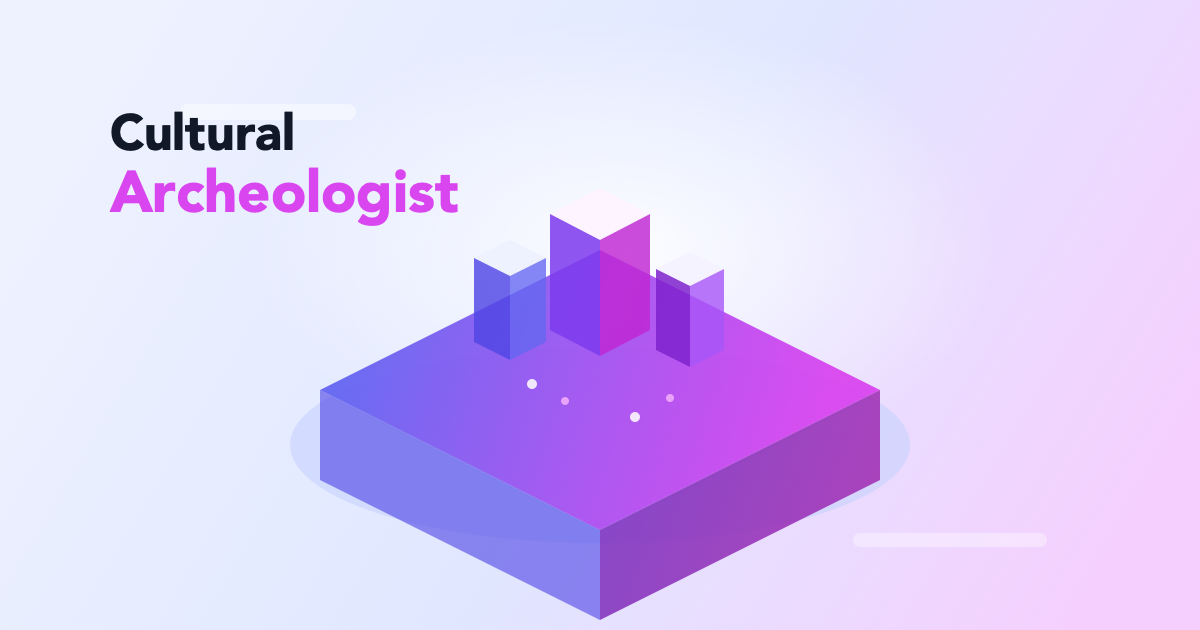
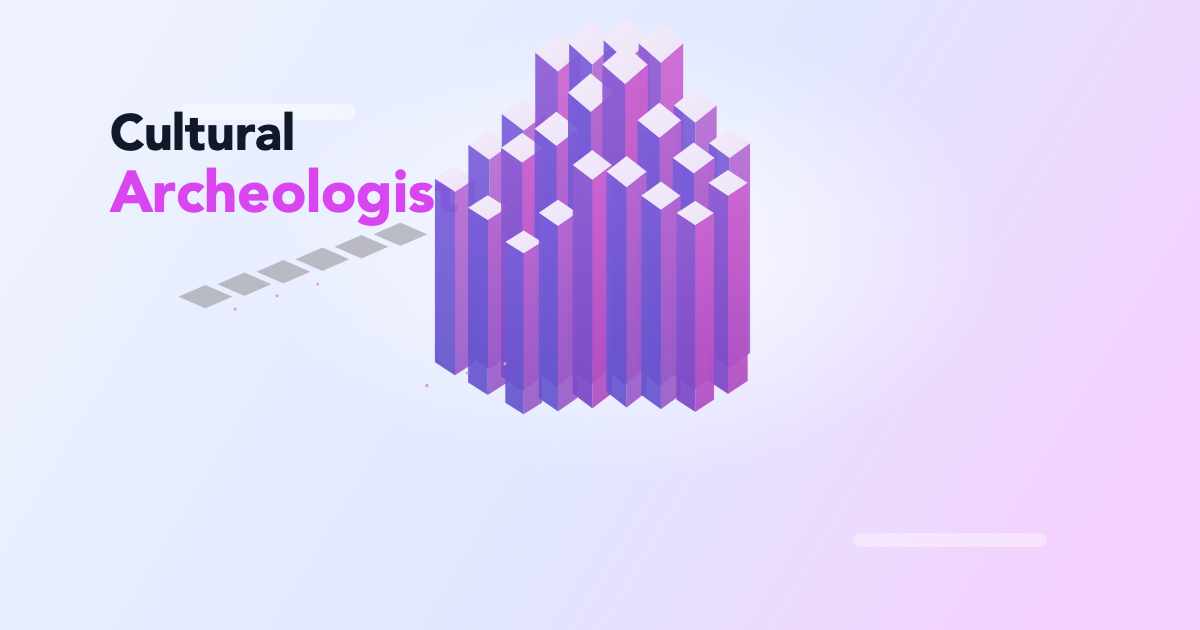
feat: refine splash cityscape interaction and social preview assets

Changed region(s): [[0.1542, 0.0603, 0.74, 0.9952]]

diff --git a/src/components/SplashGrid.tsx b/src/components/SplashGrid.tsx
@@ -2,23 +2,16 @@ import React, { useEffect, useRef } from 'react';
 
 const TILE_W = 44;
 const TILE_H = 22;
-const CITY_SATURATION_BOOST = 0;
-const CITY_LIGHTNESS_SHIFT = 20;
-const DISSOLVE_BLEND = 0.28;
-const DISSOLVE_START_DELAY_MS = 220;
-const DISSOLVE_FINAL_HOLD_MS = 180;
-const COLLAPSE_NEAR_COMPLETE = 0.985;
-const DISSOLVE_HOLD_START = 0.9;
-const DISSOLVE_HOLD_LEVEL = 0.92;
-const DISSOLVE_COMPLETE_SNAP = 0.995;
+const CITY_SATURATION_BOOST = 6;
+const CITY_LIGHTNESS_SHIFT = 8;
 
 export function SplashGrid() {
   const canvasRef = useRef<HTMLCanvasElement>(null);
-  const flattenProgressRef = useRef(0);
-  const flattenTargetRef = useRef(0);
-  const dissolveProgressRef = useRef(0);
-  const dissolveDelayUntilRef = useRef<number | null>(null);
-  const dissolveCompleteDelayUntilRef = useRef<number | null>(null);
+  const pointerXRef = useRef(0.5);
+  const pointerYRef = useRef(0.85);
+  const pointerActiveRef = useRef(false);
+  const pointerInfluenceRef = useRef(0);
+  const pointerLiftRef = useRef(0);
 
   useEffect(() => {
     const canvas = canvasRef.current;
@@ -34,15 +27,10 @@ export function SplashGrid() {
     let animationFrameId: number;
     let time = 0;
 
-    // Head-on perspective projection with 3D depth
-    const perspective = (x: number, y: number, z: number, tileW: number, tileH: number, originX: number, originY: number, fov: number = 0.05) => {
-      const depth = 1 + x * fov;
-      const scale = depth > 0 ? 1 / depth : 1;
+    const iso = (x: number, y: number, z: number, tileW: number, tileH: number, originX: number, originY: number) => {
       return {
-        x: originX + y * tileW * scale,
-        y: originY - z * tileH * scale,
-        scale: scale,
-        depth: depth
+        x: originX + (x - y) * (tileW * 0.5),
+        y: originY + (x + y) * (tileH * 0.5) - z,
       };
     };
 
@@ -75,58 +63,71 @@ export function SplashGrid() {
     window.addEventListener('resize', resize);
     resize();
 
-    const handleCanvasClick = () => {
-      // Click collapses the skyline to a fully flattened state.
-      flattenTargetRef.current = 1;
-      dissolveDelayUntilRef.current = null;
-      dissolveCompleteDelayUntilRef.current = null;
+    const setPointerPosition = (clientX: number, clientY: number) => {
+      const rect = canvas.getBoundingClientRect();
+      if (rect.width <= 0 || rect.height <= 0) return;
+      pointerXRef.current = clamp((clientX - rect.left) / rect.width, 0, 1);
+      pointerYRef.current = clamp((clientY - rect.top) / rect.height, 0, 1);
     };
 
-    canvas.addEventListener('click', handleCanvasClick);
+    const handlePointerDown = (event: PointerEvent) => {
+      pointerActiveRef.current = true;
+      setPointerPosition(event.clientX, event.clientY);
+      if (canvas.setPointerCapture) {
+        canvas.setPointerCapture(event.pointerId);
+      }
+    };
+
+    const handlePointerMove = (event: PointerEvent) => {
+      // Mouse should react on hover; touch/pen react while pressed.
+      if (event.pointerType === 'mouse') {
+        pointerActiveRef.current = true;
+      }
+      setPointerPosition(event.clientX, event.clientY);
+    };
+
+    const handlePointerUpOrCancel = () => {
+      pointerActiveRef.current = false;
+    };
+
+    const handlePointerLeave = () => {
+      pointerActiveRef.current = false;
+    };
+
+    canvas.addEventListener('pointerdown', handlePointerDown);
+    canvas.addEventListener('pointermove', handlePointerMove);
+    canvas.addEventListener('pointerup', handlePointerUpOrCancel);
+    canvas.addEventListener('pointercancel', handlePointerUpOrCancel);
+    canvas.addEventListener('pointerleave', handlePointerLeave);
 
     const render = () => {
       ctx.clearRect(0, 0, window.innerWidth, window.innerHeight);
-      const nowMs = performance.now();
 
       const tileW = TILE_W;
       const tileH = TILE_H;
-      const radiusX = 40; // Depth layers
-      const radiusY = Math.ceil(window.innerWidth / (tileW * 0.6)); // Full width distribution
+      const radiusX = Math.ceil(window.innerWidth / (tileW * 0.58));
+      const radiusY = 22;
       const originX = window.innerWidth * 0.5;
-      const originY = window.innerHeight - 80;
-      const cityScale = 0.7;
-      const night = 0;
-      const colorCycle = 0;
-      const hueShift = 0;
-      const pulseLift = 0;
+      const originY = window.innerHeight - 52;
+      const cityScale = 0.49;
       const sat = (value: number) => clamp(value + CITY_SATURATION_BOOST, 0, 100);
       const light = (value: number) => clamp(value + CITY_LIGHTNESS_SHIFT, 0, 100);
 
-      flattenProgressRef.current += (flattenTargetRef.current - flattenProgressRef.current) * 0.08;
-      const heightScale = clamp(1 - flattenProgressRef.current, 0, 1);
-      if (flattenTargetRef.current === 1 && flattenProgressRef.current >= COLLAPSE_NEAR_COMPLETE && dissolveDelayUntilRef.current === null) {
-        dissolveDelayUntilRef.current = nowMs + DISSOLVE_START_DELAY_MS;
-      }
-      const dissolveTarget = dissolveDelayUntilRef.current !== null && nowMs >= dissolveDelayUntilRef.current ? 1 : 0;
-
-      if (dissolveTarget === 1 && dissolveProgressRef.current >= DISSOLVE_HOLD_START && dissolveCompleteDelayUntilRef.current === null) {
-        dissolveCompleteDelayUntilRef.current = nowMs + DISSOLVE_FINAL_HOLD_MS;
-      }
-      const completionGateOpen = dissolveCompleteDelayUntilRef.current !== null && nowMs >= dissolveCompleteDelayUntilRef.current;
-      const effectiveDissolveTarget = dissolveTarget === 1 ? (completionGateOpen ? 1 : DISSOLVE_HOLD_LEVEL) : 0;
-
-      dissolveProgressRef.current += (effectiveDissolveTarget - dissolveProgressRef.current) * DISSOLVE_BLEND;
-      if (dissolveProgressRef.current > DISSOLVE_COMPLETE_SNAP) {
-        dissolveProgressRef.current = 1;
-      }
-      const dissolveProgress = dissolveProgressRef.current;
-      const cityVisibility = 1 - dissolveProgress;
+      const pointerInfluenceTarget = pointerActiveRef.current ? 1 : 0;
+      pointerInfluenceRef.current += (pointerInfluenceTarget - pointerInfluenceRef.current) * 0.24;
+      const pointerLiftTarget = pointerActiveRef.current
+        ? clamp((1 - pointerYRef.current) * 2.2 - 0.2, -0.4, 1.85)
+        : 0;
+      pointerLiftRef.current += (pointerLiftTarget - pointerLiftRef.current) * 0.22;
+      const pointerX = pointerXRef.current * window.innerWidth;
+      const pointerY = pointerYRef.current * window.innerHeight;
+      const pointerSigmaX = window.innerWidth * 0.14;
+      const pointerSigmaY = window.innerHeight * 0.18;
 
       ctx.save();
       ctx.translate(originX, originY);
       ctx.scale(cityScale, cityScale);
       ctx.translate(-originX, -originY);
-      ctx.globalAlpha = cityVisibility;
 
       const cells: Array<{ x: number; y: number }> = [];
       for (let y = -radiusY; y <= radiusY; y++) {
@@ -135,112 +136,87 @@ export function SplashGrid() {
         }
       }
 
-      // Sort by depth (x) then by horizontal position for proper rendering order
       cells.sort((a, b) => a.x - b.x || a.y - b.y);
 
       cells.forEach(({ x, y }) => {
-        // Skip cells outside the visible city
-        if (Math.abs(y) > radiusY * 0.95) return;
-        
-        const proj = perspective(x, y, 0, tileW, tileH, originX, originY);
+        if (Math.abs(y) > radiusY * 0.97) return;
 
-        // Create zone-based districts
-        const downtown = Math.max(0, 1 - Math.hypot(x - 20, y) / (radiusX * 0.6));
-        const midtown = Math.max(0, 1 - Math.hypot(x - 10, y - 20) / (radiusX * 0.9));
-        const zoneCenter = Math.max(downtown, midtown * 0.72);
+        const base = iso(x, y, 0, tileW, tileH, originX, originY);
+        const n = { x: base.x, y: base.y - tileH * 0.5 };
+        const e = { x: base.x + tileW * 0.5, y: base.y };
+        const s = { x: base.x, y: base.y + tileH * 0.5 };
+        const w = { x: base.x - tileW * 0.5, y: base.y };
 
-        let district: 'residential' | 'commercial' | 'industrial' = 'residential';
-        if (zoneCenter > 0.62 || hash(x * 2 + 7, y * 2 - 5) > 0.93) {
-          district = 'commercial';
-        } else if (hash(x - 6, y + 4) > 0.78) {
-          district = 'industrial';
-        }
+        // Very light underlayer so the city sits on a subtle surface.
+        const underLayerAlpha = 0.16 + hash(x * 0.47, y * 0.51) * 0.08;
+        drawPoly([n, e, s, w], `rgba(242, 244, 248, ${underLayerAlpha})`);
 
-        // Skip if water tile
-        const water = Math.abs(y - x * 0.15) < 0.8;
-        if (water) return;
+        const downtown = Math.max(0, 1 - Math.hypot(x + 3, y - 2) / (radiusY * 0.55));
+        const midtown = Math.max(0, 1 - Math.hypot(x - 8, y + 5) / (radiusY * 0.9));
+        const density = Math.max(downtown, midtown * 0.74);
 
-        // Calculate building height with animation
-        const districtBoost = district === 'commercial' ? 54 : district === 'industrial' ? 18 : 0;
-        const baseHeight = 20 + zoneCenter * 118 + districtBoost + hash(x * 3, y * 2) * 20;
-        const breathe = 1 + Math.sin(time * 1.35 + hash(x * 1.7, y * 2.3) * Math.PI * 2) * 0.07;
-        const h = baseHeight * heightScale * breathe;
+        const distX = base.x - pointerX;
+        const distY = base.y - pointerY;
+        const weightX = Math.exp(-(distX * distX) / (2 * pointerSigmaX * pointerSigmaX));
+        const weightY = Math.exp(-(distY * distY) / (2 * pointerSigmaY * pointerSigmaY));
+        const localWeight = weightX * weightY;
+        const pointerLift = pointerLiftRef.current * pointerInfluenceRef.current * localWeight;
 
-        // Building dimensions
-        const widthVariance = 0.7 + hash(x * 1.31 + 4.7, y * 0.91 - 2.3) * 0.2;
-        const buildingW = tileW * proj.scale * widthVariance;
-        const buildingH = (h * proj.scale) / 8;
+        const baseHeight = 28 + density * 170 + hash(x * 3.3, y * 2.1) * 40;
+        const breathe = 1 + Math.sin(time * 1.25 + hash(x * 0.6, y * 0.7) * Math.PI * 2) * 0.045;
+        const interactiveScale = clamp(1 + pointerLift * 2.25, 0.28, 3.7);
+        const height = baseHeight * breathe * interactiveScale;
 
-        // Color based on district and position
-        const districtHue = 228 + (y / radiusY) * 92;
-        const buildingColor = district === 'commercial'
-          ? `hsla(${districtHue + 18}, 78%, ${light(78 - night * 28 + pulseLift * 0.22)}%, 0.92)`
-          : district === 'industrial'
-            ? `hsla(${districtHue + 10}, 34%, ${light(64 - night * 22 + pulseLift * 0.22)}%, 0.88)`
-            : `hsla(${districtHue + 14}, 56%, ${light(74 - night * 24 + pulseLift * 0.22)}%, 0.90)`;
+        const footprint = 0.68 + hash(x * 0.93 - 8, y * 1.1 + 3) * 0.18;
+        const top = iso(x, y, height, tileW * footprint, tileH * footprint, originX, originY);
+        const tn = { x: top.x, y: top.y - (tileH * footprint) * 0.5 };
+        const te = { x: top.x + (tileW * footprint) * 0.5, y: top.y };
+        const ts = { x: top.x, y: top.y + (tileH * footprint) * 0.5 };
+        const tw = { x: top.x - (tileW * footprint) * 0.5, y: top.y };
 
-        // Draw building front face
-        if (buildingH > 0.5) {
-          drawPoly([
-            { x: proj.x - buildingW * 0.5, y: proj.y },
-            { x: proj.x + buildingW * 0.5, y: proj.y },
-            { x: proj.x + buildingW * 0.5, y: proj.y - buildingH },
-            { x: proj.x - buildingW * 0.5, y: proj.y - buildingH }
-          ], buildingColor);
+        const b = iso(x, y, 0, tileW * footprint, tileH * footprint, originX, originY);
+        const be = { x: b.x + (tileW * footprint) * 0.5, y: b.y };
+        const bs = { x: b.x, y: b.y + (tileH * footprint) * 0.5 };
+        const bw = { x: b.x - (tileW * footprint) * 0.5, y: b.y };
 
-          // Draw windows
-          if (buildingH > 3 && buildingW > 3) {
-            const windowSize = Math.max(1, 2.5 * proj.scale);
-            const windowsX = Math.floor(buildingW / (windowSize * 1.5));
-            const windowsY = Math.floor(buildingH / (windowSize * 1.5));
-            
-            for (let wx = 0; wx < windowsX; wx++) {
-              for (let wy = 0; wy < windowsY; wy++) {
-                const windowX = proj.x - buildingW * 0.4 + (wx + 0.5) * (buildingW * 0.8 / windowsX);
-                const windowY = proj.y - buildingH * 0.8 + (wy + 0.5) * (buildingH * 0.6 / windowsY);
-                
-                const isLit = hash(x * 2 + y, wx * 7 + wy * 11) > 0.4;
-                ctx.fillStyle = isLit 
-                  ? `hsla(${districtHue + 40}, 80%, 65%, 0.7)` 
-                  : `hsla(${districtHue}, 30%, 20%, 0.5)`;
-                ctx.fillRect(windowX - windowSize/2, windowY - windowSize/2, windowSize, windowSize);
-              }
+        const hue = 252 + ((y + radiusY) / (radiusY * 2)) * 50;
+        const topColor = `hsla(${hue + 16}, ${sat(74)}%, ${light(82)}%, 0.95)`;
+        const eastColor = `hsla(${hue + 6}, ${sat(62)}%, ${light(60)}%, 0.9)`;
+        const westColor = `hsla(${hue - 4}, ${sat(54)}%, ${light(50)}%, 0.92)`;
+
+        drawPoly([te, ts, bs, be], eastColor);
+        drawPoly([tw, ts, bs, bw], westColor);
+        drawPoly([tn, te, ts, tw], topColor);
+
+        const litChance = 0.24 + density * 0.42;
+        const rows = Math.min(8, Math.max(2, Math.floor(height / 28)));
+        const cols = 2;
+        for (let r = 0; r < rows; r++) {
+          for (let c = 0; c < cols; c++) {
+            if (hash(x * 1.7 + c * 11, y * 1.4 + r * 9) < litChance) {
+              const fx = (c + 1) / (cols + 1);
+              const fy = (r + 1) / (rows + 1);
+              const wx = bw.x + (be.x - bw.x) * fx;
+              const wy = bs.y - (height * 0.85) * fy;
+              ctx.fillStyle = 'hsla(300, 88%, 78%, 0.65)';
+              ctx.fillRect(wx - 1.1, wy - 1.1, 2.2, 2.2);
             }
           }
         }
       });
 
-      if (dissolveProgress > 0) {
-        ctx.save();
-        ctx.globalCompositeOperation = 'destination-out';
+      ctx.restore();
 
-        // Fast global fade to make the dissolve feel snappy.
-        ctx.fillStyle = `rgba(0, 0, 0, ${0.26 * dissolveProgress})`;
-        ctx.fillRect(
-          originX - radiusY * tileW,
-          originY - radiusX * tileH,
-          radiusY * tileW * 2,
-          radiusX * tileH * 2
-        );
-
-        // Deterministic speckle erase for a dissolve effect instead of a plain fade.
-        const particleCount = Math.floor(2400 * dissolveProgress);
-        const timeSeed = Math.floor(time * 220);
-        for (let i = 0; i < particleCount; i++) {
-          const rx = hash(i * 3.17 + timeSeed * 0.1, i * 7.91);
-          const ry = hash(i * 5.11, i * 2.73 + timeSeed * 0.07);
-          const px = originX + (rx * 2 - 1) * radiusY * tileW * 0.9;
-          const py = originY + (ry * 2 - 1) * radiusX * tileH * 0.84;
-          const pr = 0.7 + hash(i * 1.3, i * 9.2) * 2.4;
-
-          ctx.beginPath();
-          ctx.arc(px, py, pr, 0, Math.PI * 2);
-          ctx.fill();
-        }
-
-        ctx.restore();
-      }
-
+      // Soften overlap with headline copy by fading out the city's upper region.
+      const fadeEndY = window.innerHeight * 0.62;
+      const topFade = ctx.createLinearGradient(0, 0, 0, fadeEndY);
+      topFade.addColorStop(0, 'rgba(0, 0, 0, 1)');
+      topFade.addColorStop(0.55, 'rgba(0, 0, 0, 0.38)');
+      topFade.addColorStop(1, 'rgba(0, 0, 0, 0)');
+      ctx.save();
+      ctx.globalCompositeOperation = 'destination-out';
+      ctx.fillStyle = topFade;
+      ctx.fillRect(0, 0, window.innerWidth, fadeEndY);
       ctx.restore();
 
       time += 0.008;
@@ -250,11 +226,15 @@ export function SplashGrid() {
     render();
 
     return () => {
-      canvas.removeEventListener('click', handleCanvasClick);
+      canvas.removeEventListener('pointerdown', handlePointerDown);
+      canvas.removeEventListener('pointermove', handlePointerMove);
+      canvas.removeEventListener('pointerup', handlePointerUpOrCancel);
+      canvas.removeEventListener('pointercancel', handlePointerUpOrCancel);
+      canvas.removeEventListener('pointerleave', handlePointerLeave);
       window.removeEventListener('resize', resize);
       cancelAnimationFrame(animationFrameId);
     };
   }, []);
 
-  return <canvas ref={canvasRef} className="absolute inset-0 w-full h-full" />;
+  return <canvas ref={canvasRef} className="absolute inset-0 w-full h-full" style={{ touchAction: 'none' }} />;
 }

diff --git a/index.html b/index.html
@@ -9,15 +9,15 @@
     <meta property="og:type" content="website" />
     <meta property="og:title" content="Cultural Archeologist" />
     <meta property="og:description" content="Generate cultural insights and audience analysis in seconds." />
-    <meta property="og:image" content="/social-preview.png" />
-    <meta property="og:image:type" content="image/png" />
+    <meta property="og:image" content="/social-preview.svg" />
+    <meta property="og:image:type" content="image/svg+xml" />
     <meta property="og:image:width" content="1200" />
     <meta property="og:image:height" content="630" />
 
     <meta name="twitter:card" content="summary_large_image" />
     <meta name="twitter:title" content="Cultural Archeologist" />
     <meta name="twitter:description" content="Generate cultural insights and audience analysis in seconds." />
-    <meta name="twitter:image" content="/social-preview.png" />
+    <meta name="twitter:image" content="/social-preview.svg" />
     <title>Cultural Archeologist</title>
   </head>
   <body>
